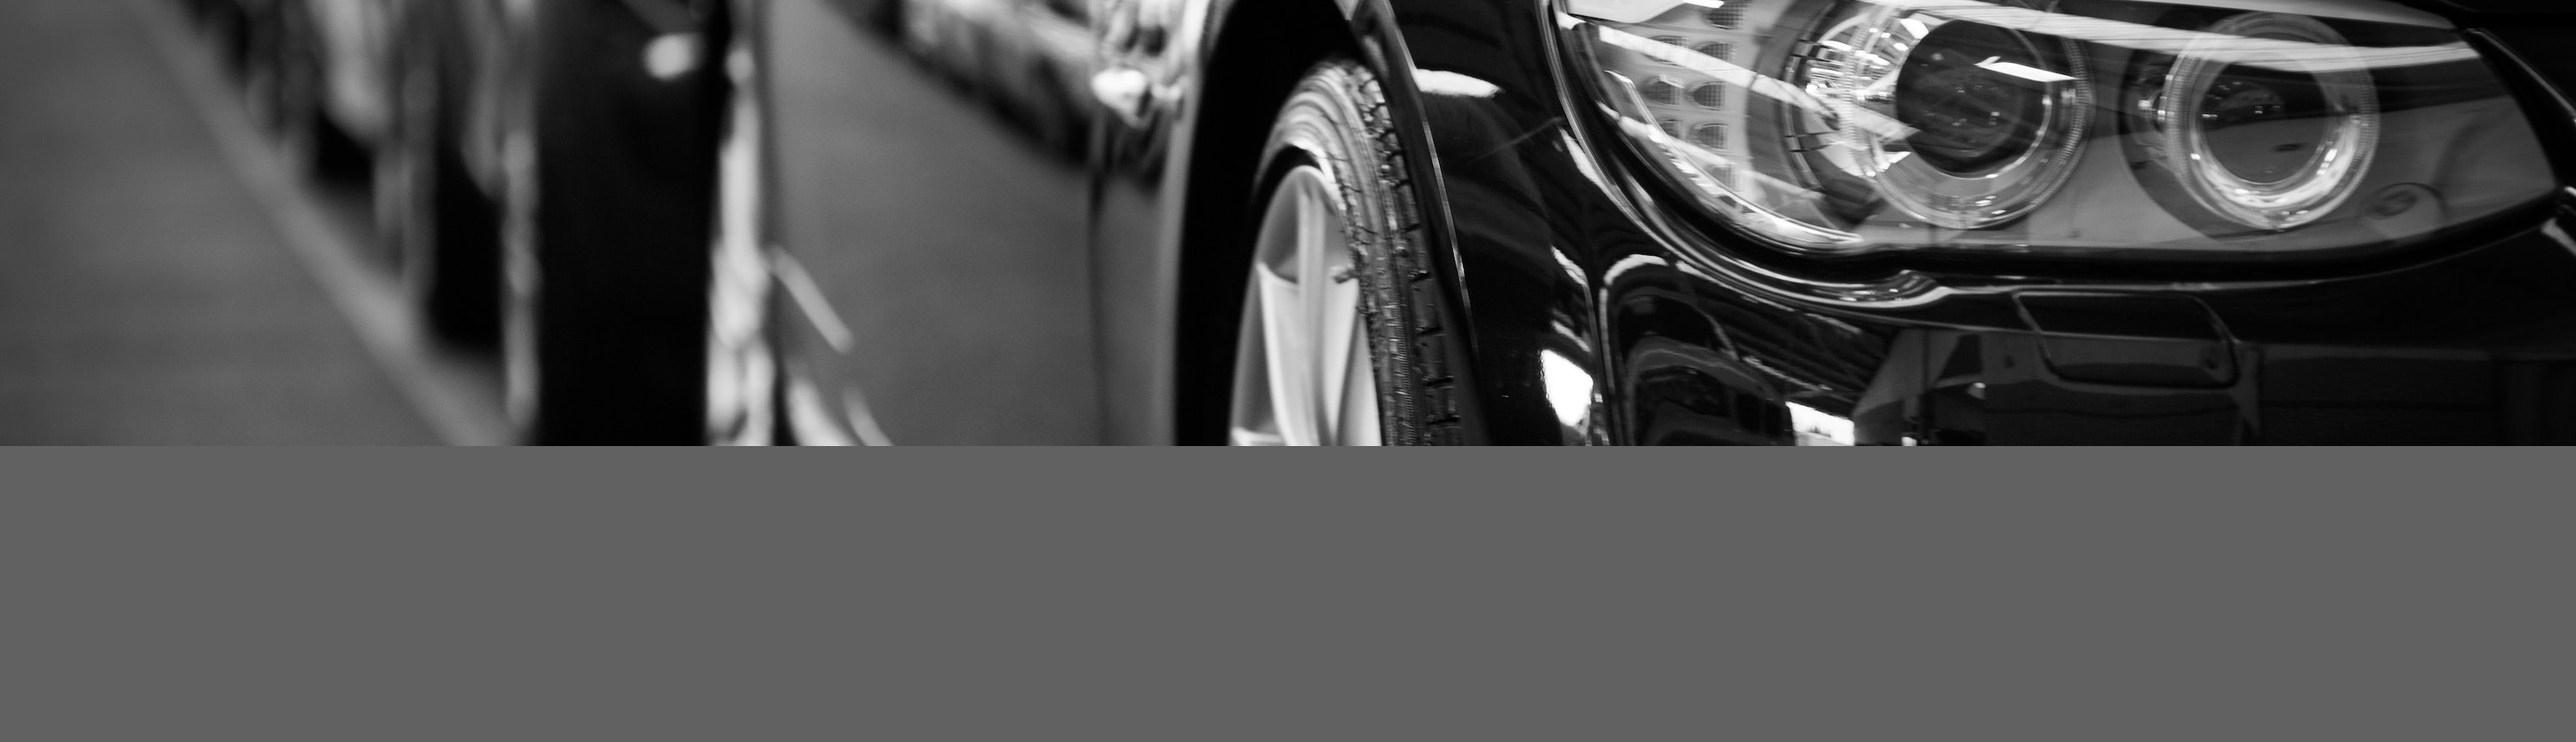
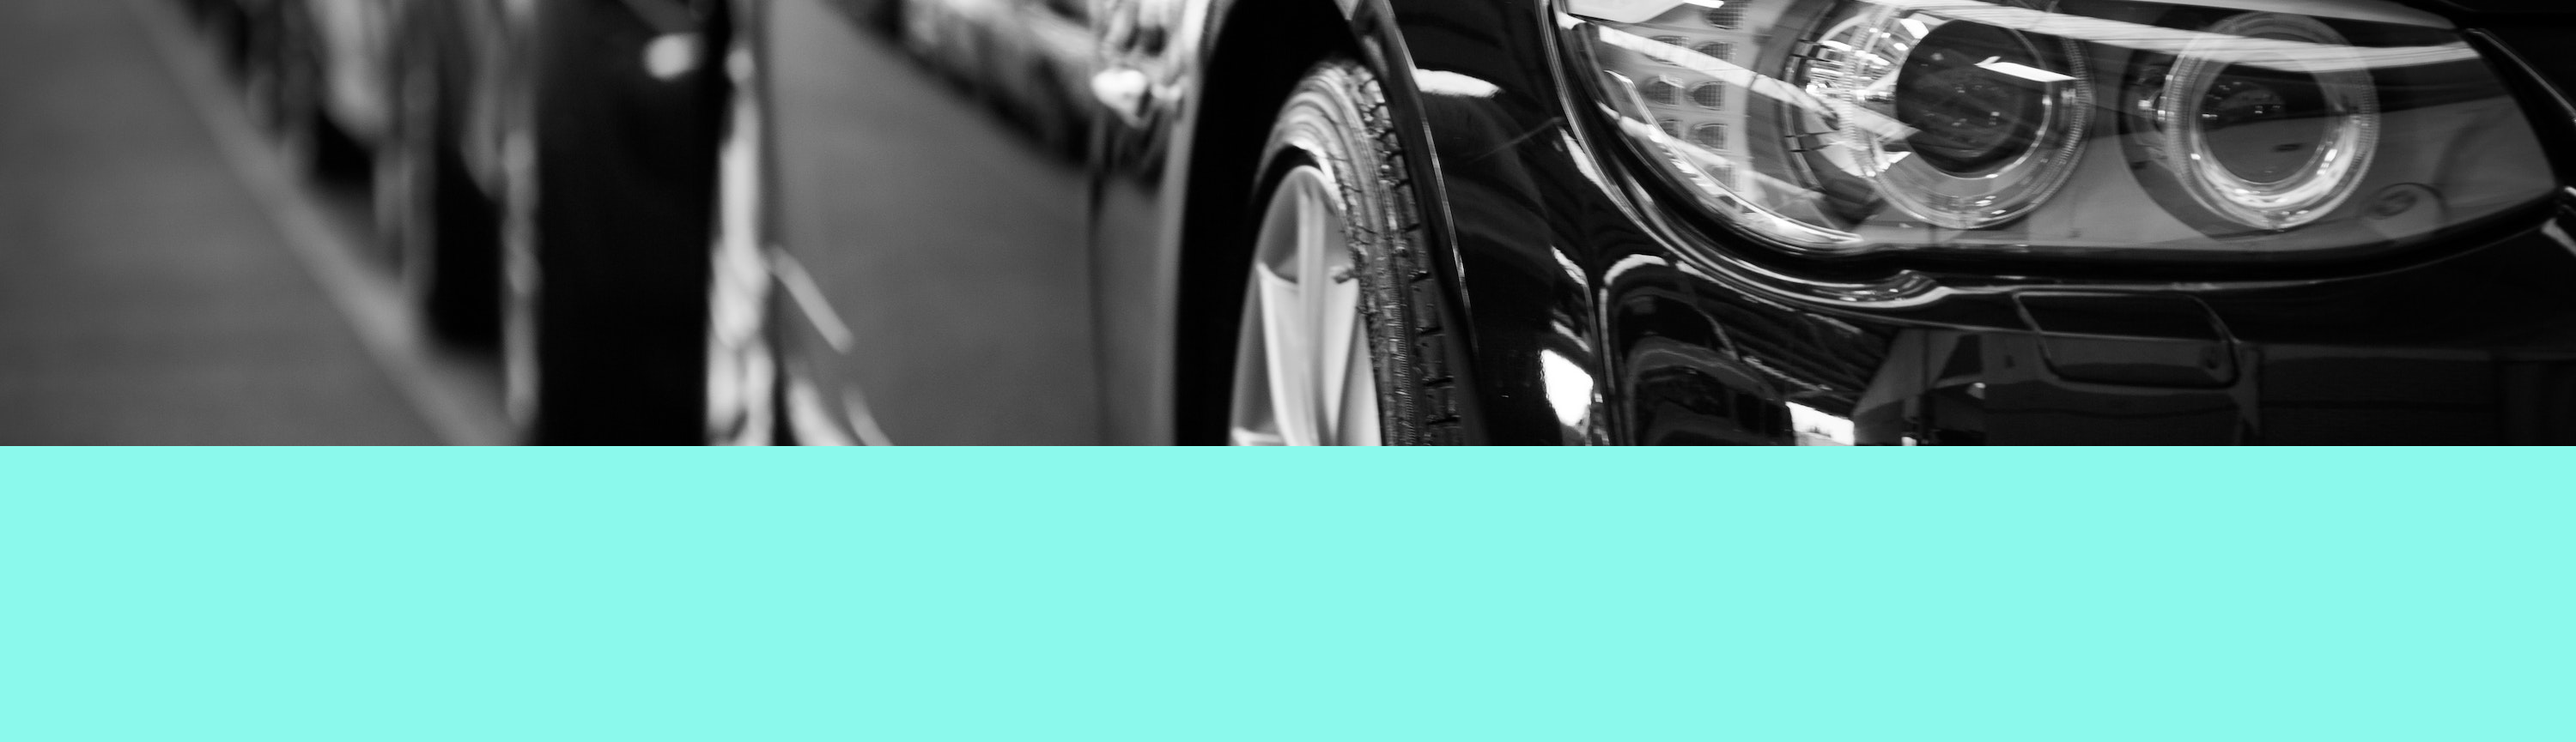
Alterei cores e coloquei todas as imagens

diff --git a/index.html b/index.html
@@ -188,12 +188,12 @@
 
     <div class="col-12 col-md-6 col-xxl-4 pb-4">
       <div class="card">
-        <img src="./assets/Carros/uno.jpg" class="card-img-top" alt="Descrição da imagem">
+        <img src="./assets/Carros/produto-1.png" class="card-img-top" alt="Descrição da imagem" width="100%" height="320">
           <title>Placeholder</title>
           <rect width="100%" height="100%" fill="#868e96"></rect>
         <div class="card-body">
-          <h5 class="card-title">Fiat Uno</h5>
-          <p class="card-text">Hatchback</p>
+          <h5 class="card-title">Fiat Argo</h5>
+          <p class="card-text">• Compacto • 1.0 • 4 Portas • Manual</p>
           <p>R$159,90/Dia</p>
           <a href="#" class="btn btn-primary bg-info rounded-pill border-0">Ver mais</a>
         </div>
@@ -202,17 +202,13 @@
 
     <div class="col-12 col-md-6 col-xxl-4 pb-4">
       <div class="card">
-        <svg class="bd-placeholder-img card-img-top" width="100%" height="180" xmlns="http://www.w3.org/2000/svg"
-          role="img" aria-label="Placeholder: Image cap" preserveAspectRatio="xMidYMid slice" focusable="false">
+        <img src="./assets/Carros/produto-2.png" class="card-img-top" alt="Descrição da imagem" width="100%" height="320">
           <title>Placeholder</title>
-          <rect width="100%" height="100%" fill="#868e96"></rect><text x="50%" y="50%" fill="#dee2e6" dy=".3em">Image
-            cap</text>
-        </svg>
+          <rect width="100%" height="100%" fill="#868e96"></rect>
         <div class="card-body">
-          <h5 class="card-title">Produto</h5>
-          <p class="card-text">Some quick example text to build on the card title and make up the bulk of the card's
-            content.</p>
-          <p>R$30,00</p>
+          <h5 class="card-title">BYD Dolphin</h5>
+          <p class="card-text">• Hatchback • Elétrico • 4 Portas • Automático</p>
+          <p>R$359,90/Dia</p>
           <a href="#" class="btn btn-primary bg-info rounded-pill border-0">Ver mais</a>
         </div>
       </div>
@@ -220,17 +216,13 @@
 
     <div class="col-12 col-md-6 col-xxl-4 pb-4">
       <div class="card">
-        <svg class="bd-placeholder-img card-img-top" width="100%" height="180" xmlns="http://www.w3.org/2000/svg"
-          role="img" aria-label="Placeholder: Image cap" preserveAspectRatio="xMidYMid slice" focusable="false">
+        <img src="./assets/Carros/produto-3.png" class="card-img-top" alt="Descrição da imagem" width="100%" height="320">
           <title>Placeholder</title>
-          <rect width="100%" height="100%" fill="#868e96"></rect><text x="50%" y="50%" fill="#dee2e6" dy=".3em">Image
-            cap</text>
-        </svg>
+          <rect width="100%" height="100%" fill="#868e96"></rect>
         <div class="card-body">
-          <h5 class="card-title">Produto</h5>
-          <p class="card-text">Some quick example text to build on the card title and make up the bulk of the card's
-            content.</p>
-          <p>R$30,00</p>
+          <h5 class="card-title">Mercedez Benz G-Wagon</h5>
+          <p class="card-text">• SUV • 4.0 V8 • 4x4 • Automático</p>
+          <p>R$899,90/Dia</p>
           <a href="#" class="btn btn-primary bg-info rounded-pill border-0">Ver mais</a>
         </div>
       </div>
@@ -238,17 +230,13 @@
 
     <div class="col-12 col-md-6 col-xxl-4 pb-4">
       <div class="card">
-        <svg class="bd-placeholder-img card-img-top" width="100%" height="180" xmlns="http://www.w3.org/2000/svg"
-          role="img" aria-label="Placeholder: Image cap" preserveAspectRatio="xMidYMid slice" focusable="false">
+        <img src="./assets/Carros/produto-4.png" class="card-img-top" alt="Descrição da imagem" width="100%" height="320">
           <title>Placeholder</title>
-          <rect width="100%" height="100%" fill="#868e96"></rect><text x="50%" y="50%" fill="#dee2e6" dy=".3em">Image
-            cap</text>
-        </svg>
+          <rect width="100%" height="100%" fill="#868e96"></rect>
         <div class="card-body">
-          <h5 class="card-title">Produto</h5>
-          <p class="card-text">Some quick example text to build on the card title and make up the bulk of the card's
-            content.</p>
-          <p>R$30,00</p>
+          <h5 class="card-title">Honda HR-V</h5>
+          <p class="card-text">• SUV • 1.5 • Turbo • Automático</p>
+          <p>R$359,90/Dia</p>
           <a href="#" class="btn btn-primary bg-info rounded-pill border-0">Ver mais</a>
         </div>
       </div>
@@ -256,17 +244,13 @@
 
     <div class="col-12 col-md-6 col-xxl-4 pb-4">
       <div class="card">
-        <svg class="bd-placeholder-img card-img-top" width="100%" height="180" xmlns="http://www.w3.org/2000/svg"
-          role="img" aria-label="Placeholder: Image cap" preserveAspectRatio="xMidYMid slice" focusable="false">
+        <img src="./assets/Carros/produto-5.png" class="card-img-top" alt="Descrição da imagem" width="100%" height="320">
           <title>Placeholder</title>
-          <rect width="100%" height="100%" fill="#868e96"></rect><text x="50%" y="50%" fill="#dee2e6" dy=".3em">Image
-            cap</text>
-        </svg>
+          <rect width="100%" height="100%" fill="#868e96"></rect>
         <div class="card-body">
-          <h5 class="card-title">Produto</h5>
-          <p class="card-text">Some quick example text to build on the card title and make up the bulk of the card's
-            content.</p>
-          <p>R$30,00</p>
+          <h5 class="card-title">Hyundai HB20S</h5>
+          <p class="card-text">• Sedan • 1.0 • 4 Portas • Manual</p>
+          <p>R$229,90/Dia</p>
           <a href="#" class="btn btn-primary bg-info rounded-pill border-0">Ver mais</a>
         </div>
       </div>
@@ -274,17 +258,13 @@
 
     <div class="col-12 col-md-6 col-xxl-4 pb-4">
       <div class="card">
-        <svg class="bd-placeholder-img card-img-top" width="100%" height="180" xmlns="http://www.w3.org/2000/svg"
-          role="img" aria-label="Placeholder: Image cap" preserveAspectRatio="xMidYMid slice" focusable="false">
+        <img src="./assets/Carros/produto-6.png" class="card-img-top" alt="Descrição da imagem" width="100%" height="320">
           <title>Placeholder</title>
-          <rect width="100%" height="100%" fill="#868e96"></rect><text x="50%" y="50%" fill="#dee2e6" dy=".3em">Image
-            cap</text>
-        </svg>
+          <rect width="100%" height="100%" fill="#868e96"></rect>
         <div class="card-body">
-          <h5 class="card-title">Produto</h5>
-          <p class="card-text">Some quick example text to build on the card title and make up the bulk of the card's
-            content.</p>
-          <p>R$30,00</p>
+          <h5 class="card-title">Renault Kwid</h5>
+          <p class="card-text">• Compacto • 1.0 • Turbo • Automático</p>
+          <p>R$109,90/Dia</p>
           <a href="#" class="btn btn-primary bg-info rounded-pill border-0">Ver mais</a>
         </div>
       </div>

diff --git a/estilos.css b/estilos.css
@@ -6,6 +6,9 @@
     width: 325px;
 }
 
+.bg-info {
+    background-color: #0CDAC1 !important;
+}
 .div-novidades {
     width: 325px;
 }
@@ -17,6 +20,7 @@
 .verde-limao {
     color: #DAFF01;
 }
+
 
 @media(min-width: 768px) {
 
